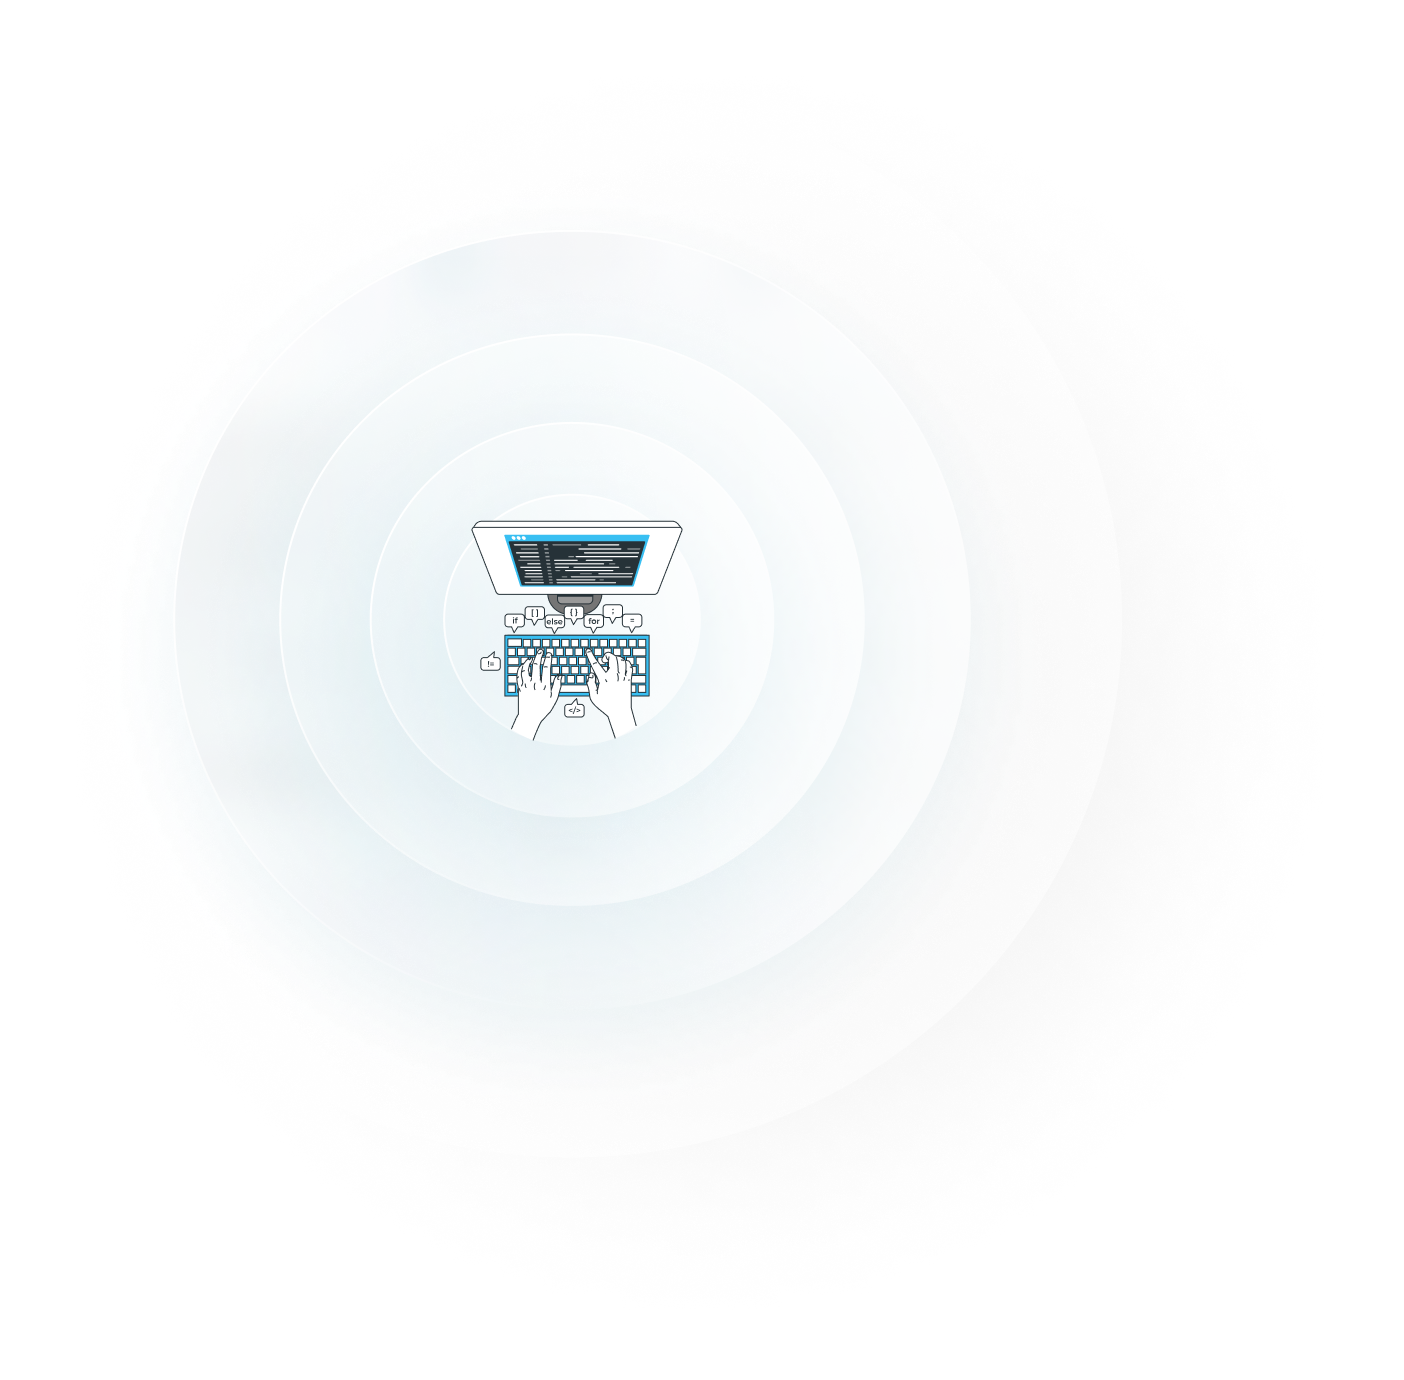
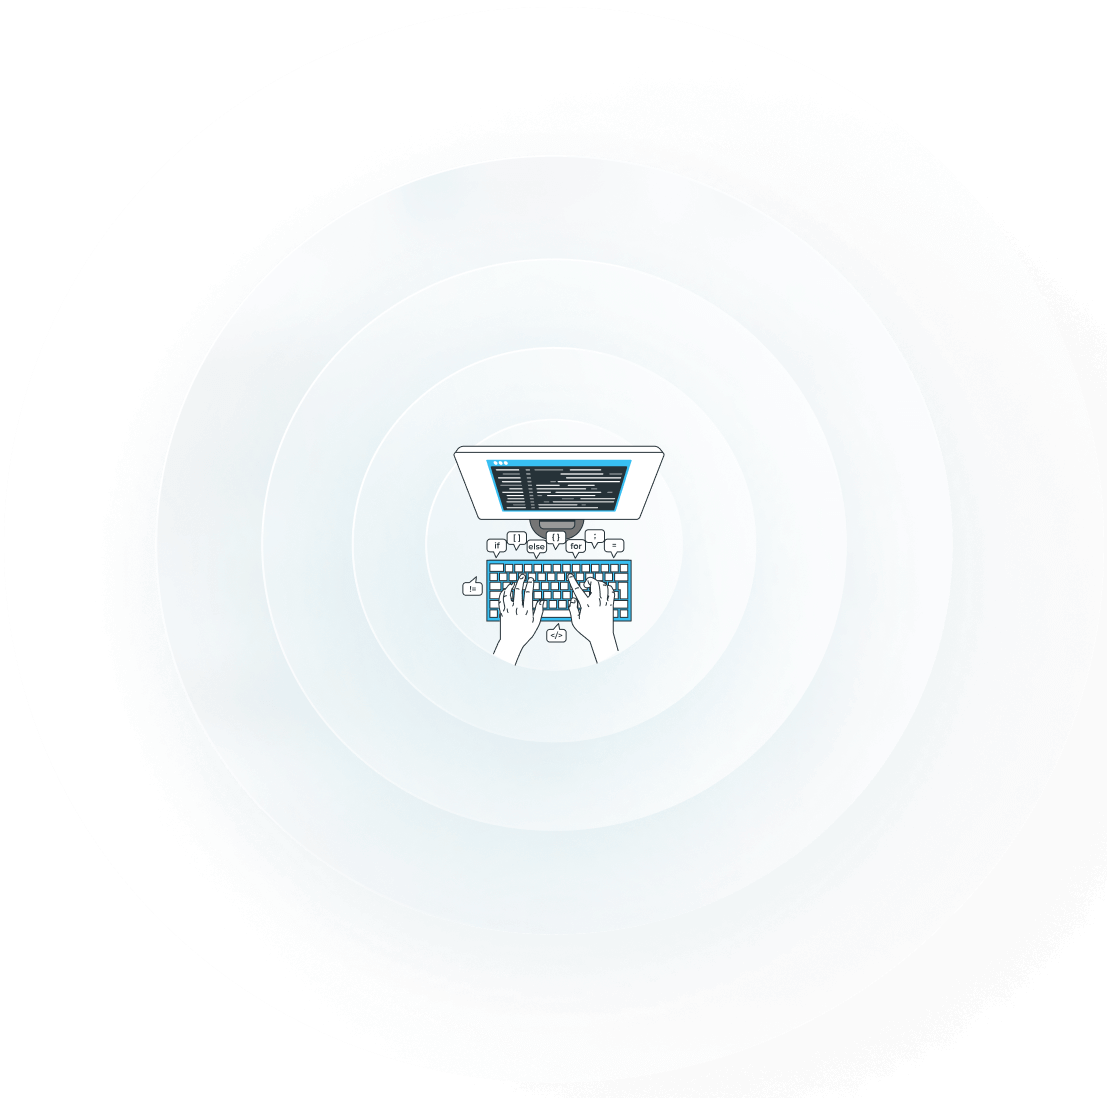
bg-image fix

Changed region(s): [[0.3379, 0.3716, 0.5836, 0.5883]]

diff --git a/src/styles/sections/_hero.scss b/src/styles/sections/_hero.scss
@@ -3,7 +3,7 @@
   min-height: 70rem;
   background-image: url('/images/hero-bg.png');
   background-repeat: no-repeat;
-  background-position: 38.5% 10%;
+  background-position: center 0;
 
   &__container {
     text-align: center;
